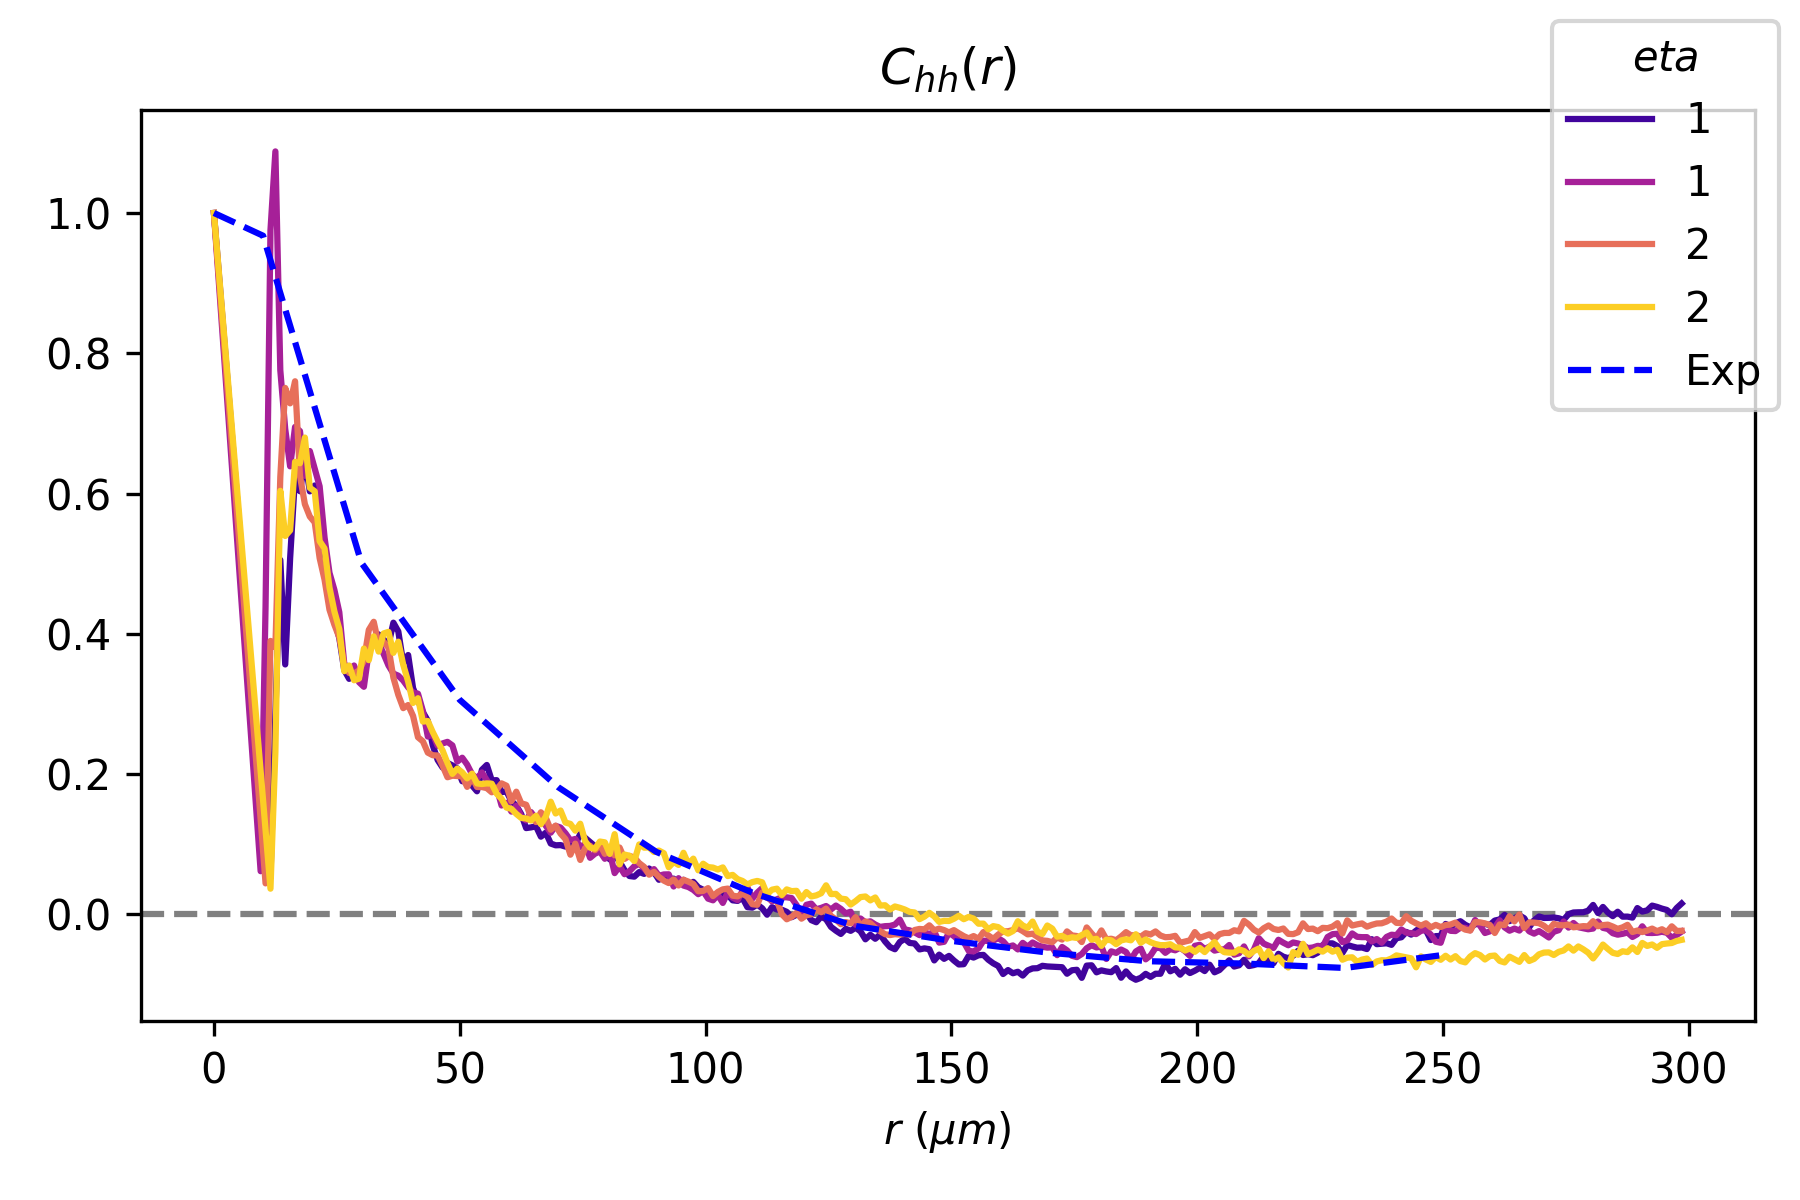
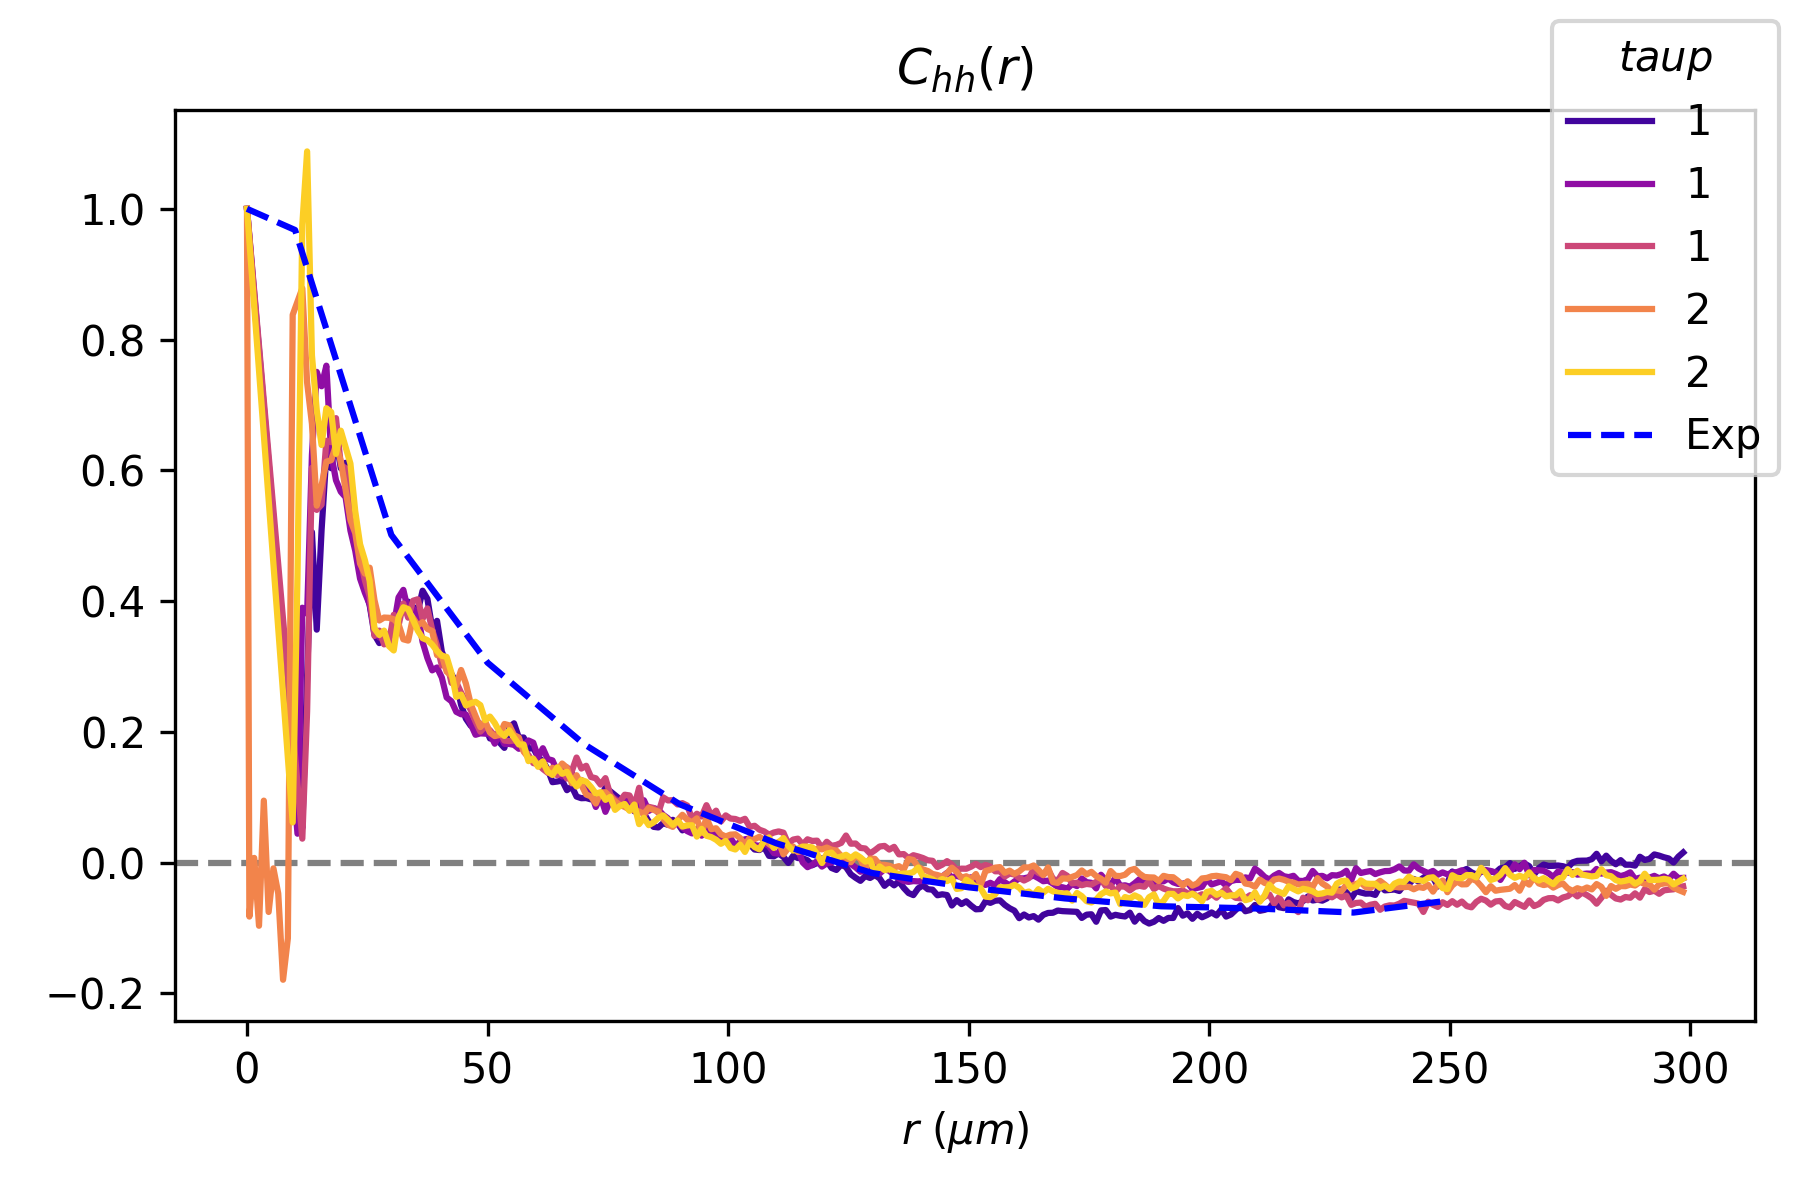
updated default dr

diff --git a/analysis/compute_correlations.py b/analysis/compute_correlations.py
@@ -111,7 +111,7 @@ def main():
     parser.add_argument('-p', '--param',     type=str, help="Parameter to plot correlation of (varvar)", default="all")
     parser.add_argument('-v', '--var',       type=str, help="Correlation variable (t or r)",             default="all")
     parser.add_argument('-o','--overwrite',            help="Overwrite previous computations",           action='store_true')
-    parser.add_argument('--dr',            type=float, help="Spatial step size (float)",                                            default='5')
+    parser.add_argument('--dr',            type=float, help="Spatial step size (float)",                                            default='20')
     parser.add_argument('--rfrac',         type=float, help="Max distance to compute correlation for (float)",                      default='0.5')
     parser.add_argument('--tfrac',         type=float, help="Fraction of total duration to compute correlation for (float)",        default='0.5')
     parser.add_argument('--mean_var',      type=str,   help="Variable to take mean over in <x - <x>_var> (t or cell). Default: t",  default='t')
